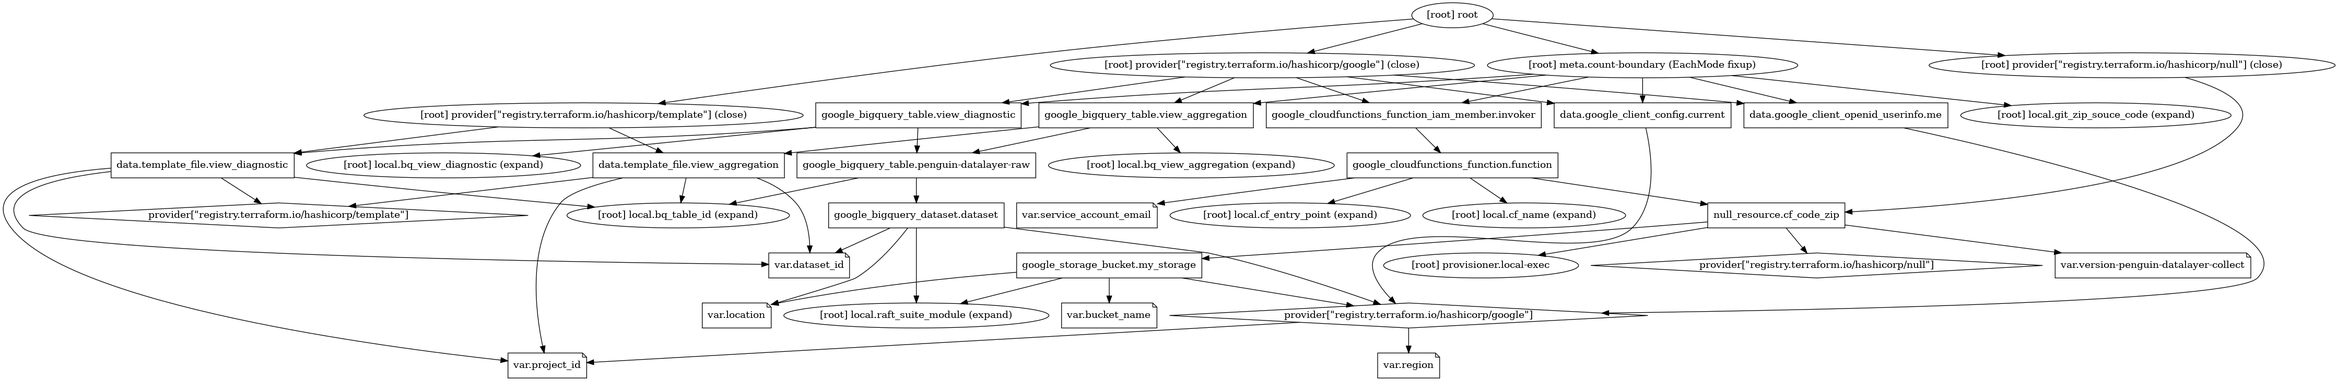
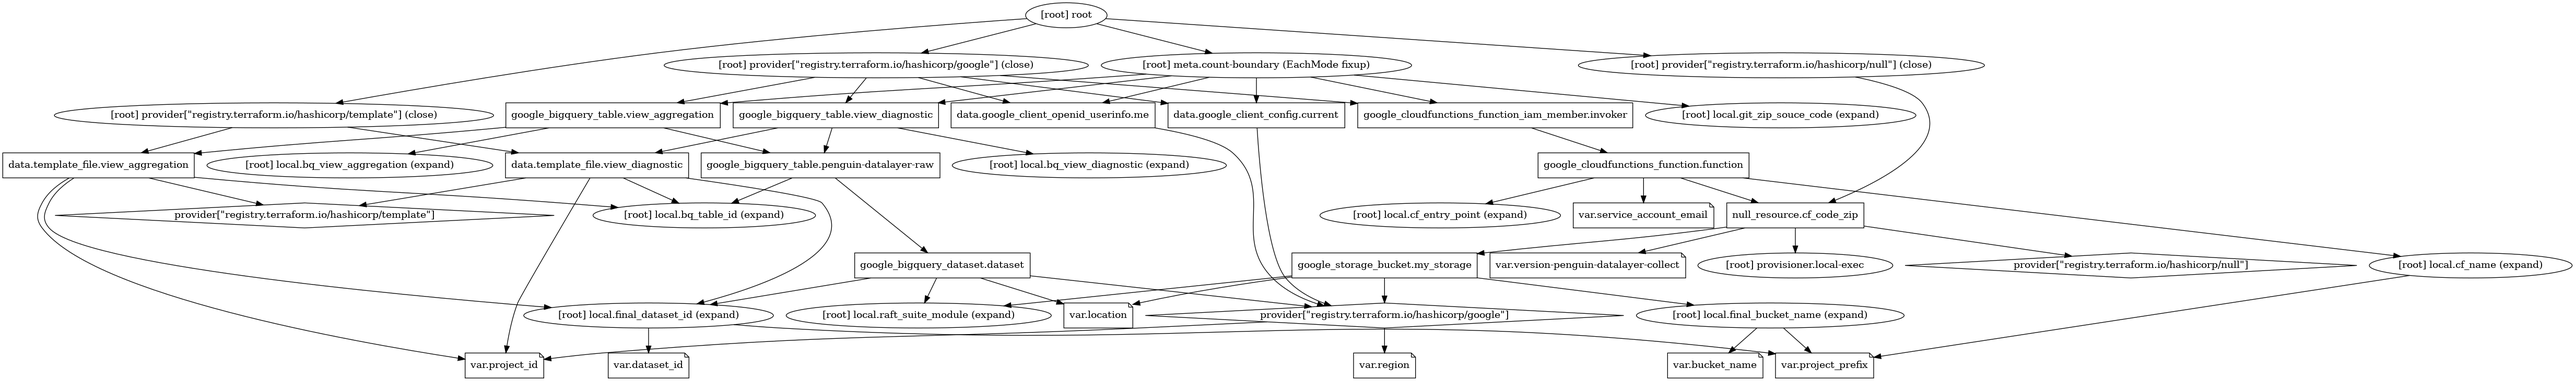
refactor: :recycle: adicionado pré-fixo dinâmico ou build do tr
Criado fluxo de input do pré-fixo dinamico para o build do produtos do GCP pelo terraform e iniciado construção da consolidação do BQ

diff --git a/README.md b/README.md
@@ -54,6 +54,7 @@ O ecossistema raft-suite é uma solução da DP6 que visa suprir as necessidades
 3. [Criar service Account](https://cloud.google.com/iam/docs/creating-managing-service-accounts) com as permissões (Storage Object Admin, Cloud Functions Admin, BigQuery Admin e Service Account User)
 4. Variável [GOOGLE_APPLICATION_CREDENTIALS](https://cloud.google.com/docs/authentication/getting-started#setting_the_environment_variable)
 5. Instalar o [Terraform](https://www.terraform.io/downloads.html)
+6. Habilitar os produtos no GCP Cloud Function, BigQuery, Cloud Build API e Cloud Storage, para uso do BigQuery é necessário ter um billing ativo
 
 _Observação:_ Utilizando o ambiente no [Google Cloud Shell](https://cloud.google.com/shell/docs) não é necessário fazer os **1**, **2**, **4** e **5**
 
